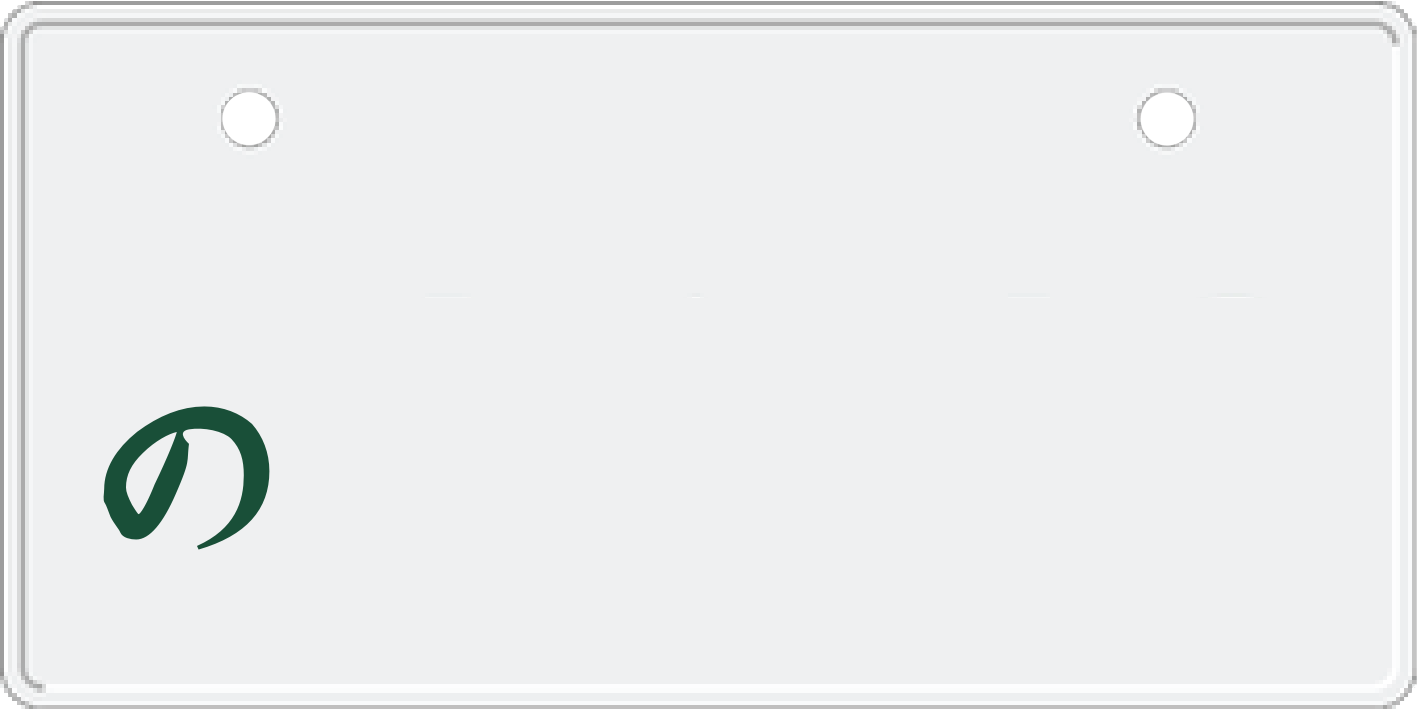
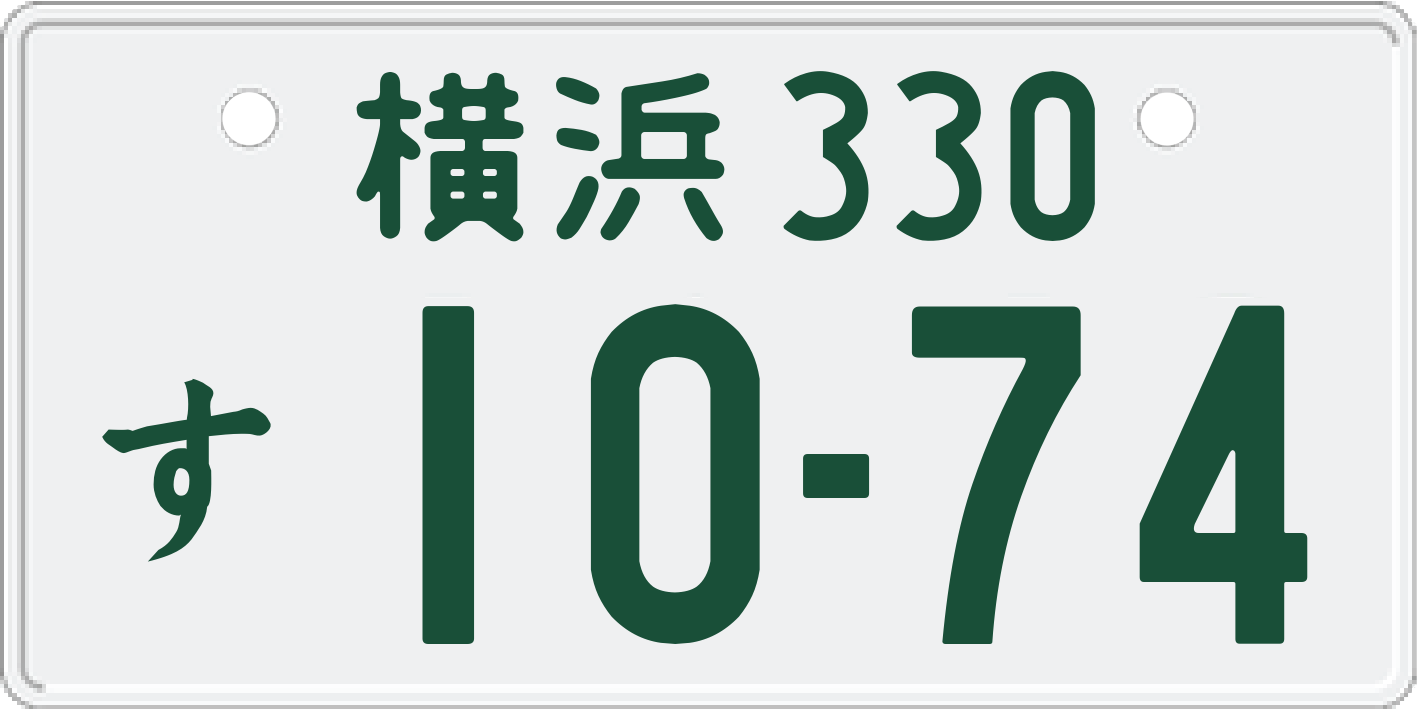
Make LTO Abbr, Hiragana, Class No, and Number into individual component

diff --git a/main.py b/main.py
@@ -10,6 +10,7 @@ from PIL import Image, ImageDraw, ImageFont
 
 class Plate:
 
+	#List of plate type
 	PLATE_TYPE = {
 		1: "resource/template/normal.png",
 		2: "resource/template/kei.png",
@@ -17,6 +18,7 @@ class Plate:
 		4: "resource/template/kei-comm.png"
 	}
 
+	#List of font color
 	FONT_COLOR = {
 		1: (25,79,56),
 		2: (50,50,50),
@@ -24,28 +26,45 @@ class Plate:
 		4: (243,194,4)
 	}
 
+	#List of font directories
+	LIST_FONT = {
+		"TRM": "resource/font/trm.ttf",
+		"FZ": "resource/font/fz.otf"
+	}
+
 	#List of Hiragana by Font
 	FONT_TRM_HIRA = list("あいうかきくけこせを")
 	FONT_FZ_HIRA = list("えさすそたちつてとなにぬねのはひふほまみむめもやゆよらりるれろわ")
 
+	#List of LTO Abbreviations
+	LIST_TRM_LTO_ABBR = ["ナニワ", "山口", "岐阜", "石川", "浜松", "島根", "横浜", "Ｏ", "Ｉ"]
+	LIST_FZ_LTO_ABBR = ["ツクバ", "福島", "北九州", "奈良", "徳島", "金沢", "山口", "富士山", "高知"]
+
+	
+
 	def __init__(self, p_lto_abbr, p_class_num, p_hira, p_number, p_type: int=1):
-		self.class_num = p_class_num
 		self.type = self.PLATE_TYPE[p_type]
+		self.font_color = self.FONT_COLOR[p_type]
 		#Hiragana Character Setting
 		self.hira = p_hira
 		self.hira_font = self._hira_font(p_hira)
 		self.hira_font_size = 650 if self.hira in self.FONT_TRM_HIRA else 200
 		self.hira_position = (60, 180) if self.hira in self.FONT_TRM_HIRA else (85, 380)
-		#LTO abbreviation setting
+		#LTO abbreviation Setting
 		self.lto_abbr = p_lto_abbr
-		self.lto_abbr_font_size = 200 if self.hira in self.FONT_TRM_HIRA else 150
-		#Other
-		self.font_color = self.FONT_COLOR[p_type]
+		self.lto_abbr_font = self._lto_abbr_font(self.lto_abbr)
+		self.lto_abbr_font_size = 200 if self.lto_abbr in self.LIST_TRM_LTO_ABBR else 175
+		self.lto_abbr_position = (340, 70) if self.lto_abbr in self.LIST_TRM_LTO_ABBR else (365, 70)
+		#Class Number Setting
+		self.class_num = p_class_num
+		self.class_num_font = self.LIST_FONT["TRM"]
+		#Plate Number Setting	
 		self.number = p_number
+		self.number_font = self.LIST_FONT["TRM"]
 
 	def __str__(self):
 		return f"""
-		LTO Abbreviation: {self.lto_abbr}
+		LTO Abbreviation: {self.lto_abbr}, Font used: {self.lto_abbr_font}
 		Class Number: {self.class_num}
 		Hiragana Character: {self.hira}, Font used: {self.hira_font}
 		Number: {self.number}
@@ -54,22 +73,37 @@ class Plate:
 
 	def _hira_font(self, letter):
 		if letter in self.FONT_TRM_HIRA:
-			return "resource/font/trm.ttf"
+			return self.LIST_FONT["TRM"]
 		elif letter in self.FONT_FZ_HIRA:
-			return "resource/font/fz.otf"
+			return self.LIST_FONT["FZ"]
 		else:
 			raise HiraganaNotFoundError
+			return "null"
+
+	def _lto_abbr_font(self, lto_abbr):
+		if lto_abbr in self.LIST_TRM_LTO_ABBR:
+			return self.LIST_FONT["TRM"]
+		elif lto_abbr in self.LIST_FZ_LTO_ABBR:
+			return self.LIST_FONT["FZ"]
+		else:
+			raise LTOAbbreviationNotFoundError
 			return "null"
 
 	def generatePlate(self):
 		img = Image.open(self.type)
 		draw = ImageDraw.Draw(img)
 		#Draw LTO Abbreviation
-		#font_lto_abbr = ImageFont.truetype(self.hira_font, self.hira_font_size)
-		#draw.text((340, 70),self.lto_abbr+"＠"+self.class_num,fill=self.font_color, font=font_lto_abbr)
+		font_lto_abbr = ImageFont.truetype(self.lto_abbr_font, self.lto_abbr_font_size)
+		draw.text(self.lto_abbr_position,self.lto_abbr,fill=self.font_color, font=font_lto_abbr)
 		#Draw Hiragana Character
 		font_hira = ImageFont.truetype(self.hira_font, self.hira_font_size)
 		draw.text(self.hira_position,self.hira,fill=self.font_color, font=font_hira)
+		#Draw Class Number
+		font_class_num = ImageFont.truetype(self.class_num_font, 200)
+		draw.text((770, 70), self.class_num, fill=self.font_color, font=font_class_num)
+		#Draw Number
+		font_number = ImageFont.truetype(self.number_font, 400)
+		draw.text((335, 300), self.number, fill=self.font_color, font=font_number)
 		img.save("test.png")
 
 class Error(Exception):
@@ -78,13 +112,18 @@ class Error(Exception):
 class HiraganaNotFoundError(Error):
 	pass #Exception when plate_hira is not in the list
 
+class LTOAbbreviationNotFoundError(Error):
+	pass #Exception when plate_hira is not in the list
+
 if __name__ == "__main__":
 	try:
-		p = Plate("横浜", "502", "の", "92-68", 1)
+		p = Plate("横浜", "330", "す", "10-74", 1)
 		print(p)
 		p.generatePlate()
 	except HiraganaNotFoundError:
 		print("Hiragana not supported")
+	except LTOAbbreviationNotFoundError:
+		print("LTO Abbreviation not supported")
 # plate_info = Plate("横浜", "200", "か", "11-74", 3)
 # plate_info.PLATE_TYPE
 # Plate.PLATE_TYPE
